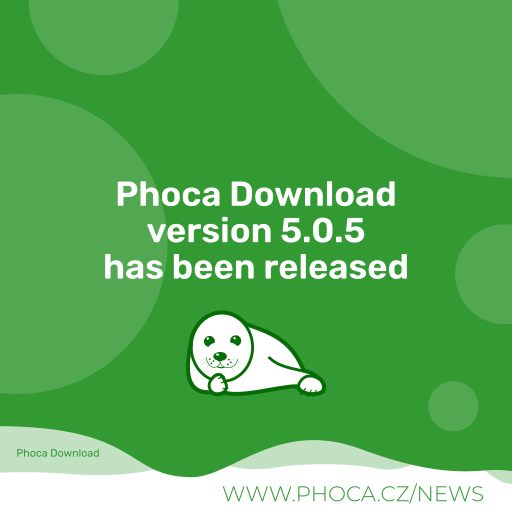
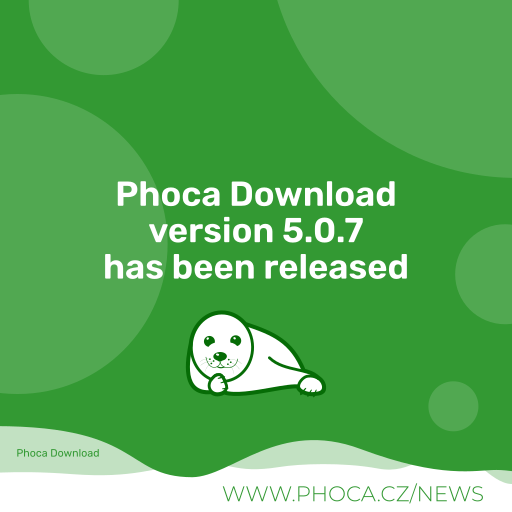
5.0.7

Changed region(s): [[0.2812, 0.4062, 0.7188, 0.4688]]

diff --git a/site/models/user.php b/site/models/user.php
@@ -8,10 +8,13 @@
  * @copyright Copyright (C) Jan Pavelka www.phoca.cz
  * @license http://www.gnu.org/copyleft/gpl.html GNU/GPL
  */
+
 defined('_JEXEC') or die();
+
 use Joomla\CMS\MVC\Model\BaseDatabaseModel;
 use Joomla\CMS\Factory;
 use Joomla\CMS\Pagination\Pagination;
+use Joomla\CMS\Plugin\PluginHelper;
 use Joomla\CMS\Session\Session;
 use Joomla\CMS\Client\ClientHelper;
 use Joomla\CMS\Component\ComponentHelper;
@@ -31,9 +34,19 @@ class PhocaDownloadModelUser extends BaseDatabaseModel
 	var $_pagination_files 		= null;
 	var $_context_files			= 'com_phocadownload.phocadownloaduserfiles';
 
+	protected $event_before_save = null;
+	protected $event_after_save = null;
+
 
 	function __construct() {
 		parent::__construct();
+
+		//if (isset($config['event_before_save'])) {
+        //    $this->event_before_save = $config['event_before_save'];
+        //} elseif (empty($this->event_before_save)) {
+            $this->event_before_save = 'onContentBeforeSave';
+        //}
+		$this->event_after_save = 'onContentAfterSave';
 
 		$app	= Factory::getApplication();
 		// SubCategory
@@ -415,9 +428,11 @@ class PhocaDownloadModelUser extends BaseDatabaseModel
 	function _save($data, $filename, &$errSaveMsg, $fileExists = 0) {
 
 		$user 	= Factory::getUser();
+		$app = Factory::getApplication();
 
 		$paramsC 					= ComponentHelper::getParams('com_phocadownload') ;
 		$default_access 			= $paramsC->get( 'default_access', 1 );
+		$frontend_run_events 		= $paramsC->get( 'frontend_run_events', 0 );
 		$fileId = false;
 		if ($fileExists == 1) {
 			// We not only owerwrite the file but we must update it
@@ -441,8 +456,10 @@ class PhocaDownloadModelUser extends BaseDatabaseModel
 
 		$row = $this->getTable('phocadownload');
 
+		$isNew = true;
 		if (isset($fileId->id) && (int)$fileId->id > 0) {
 			$data['id'] = (int)$fileId->id;
+			$isNew = false;
 		}
 
 
@@ -504,6 +521,44 @@ class PhocaDownloadModelUser extends BaseDatabaseModel
 			return false;
 		}
 
+		/*
+		PluginHelper::importPlugin($this->events_map['save']);
+		$result = $app->triggerEvent($this->event_before_save, array($this->option.'.'.$this->name, $row, $isNew, $data));
+		if (\in_array(false, $result, true)) {
+			$this->setError($row->getError());
+			return false;
+		}
+
+		// Store the data.
+		/*if (!$table->store()) {
+			throw new Exception($table->getError(), 500);
+			return false;
+		}*/
+
+		// Trigger the before save event.
+		if ($frontend_run_events == 1) {
+			PluginHelper::importPlugin('content');
+			$context    = $this->option . '.' . 'file';// com_phocadownload.file
+			$table      = $row;
+			$dispatcher = $this->getDispatcher();
+
+			// Before Save
+			$beforeSaveEvent = new Joomla\CMS\Event\Model\BeforeSaveEvent($this->event_before_save, [
+				'context' => $context,
+				'subject' => $table,
+				'isNew' => $isNew,
+				'data' => $data,
+			]);
+			$result          = $dispatcher->dispatch($this->event_before_save, $beforeSaveEvent)->getArgument('result', []);
+			//$result = $app->triggerEvent($this->event_before_save, array($context, $row, $isNew, $data));
+
+
+			/*if (\in_array(false, $result, true)) {
+                $this->setError($table->getError());
+                return false;
+            }*/
+		}
+
 		// Store the Phoca gallery table to the database
 		if (!$row->store()) {
 			//throw new Exception($this->_db->getError());
@@ -511,6 +566,16 @@ class PhocaDownloadModelUser extends BaseDatabaseModel
 			return false;
 		}
 
+		if ($frontend_run_events == 1) {
+			// After Save
+			$afterSaveEvent = new Joomla\CMS\Event\Model\AfterSaveEvent($this->event_after_save, [
+				'context' => $context,
+				'subject' => $table,
+				'isNew' => $isNew,
+				'data' => $data,
+			]);
+			$result         = $dispatcher->dispatch($this->event_after_save, $afterSaveEvent)->getArgument('result', []);
+		}
 		PhocaDownloadLog::log($row->id, 2);
 
 		return true;

diff --git a/site/router.php b/site/router.php
@@ -50,10 +50,18 @@ class PhocadownloadRouter extends RouterView
 		//$play->setKey('id')->setParent($category, 'catid');//->setNestable();
 		//$this->registerView($play);
 
-		$views = array('play', 'download', 'user');
+		$views = array('play', 'user');
         foreach ($views as $k => $v) {
             $item = new RouterViewConfiguration($v);
 		    $item->setName($v)->setParent($file, 'id')->setParent($category, 'catid');
+		    $this->registerView($item);
+        }
+
+        $views = array('download');
+        foreach ($views as $k => $v) {
+            $item = new RouterViewConfiguration($v);
+		    //$item->setName($v)->setParent($file, 'id')->setParent($category, 'catid');
+            $item->setName($v)->setParent($file, 'id')->setParent($categories, 'parent_id');
 		    $this->registerView($item);
         }
 

diff --git a/README.MD b/README.MD
@@ -100,7 +100,7 @@ Phoca Download is download manager for Joomla! CMS. It includes component, modul
 
 ## Version (Joomla! 5.x)
 
-5.0.5
+5.0.7
 
 
 
